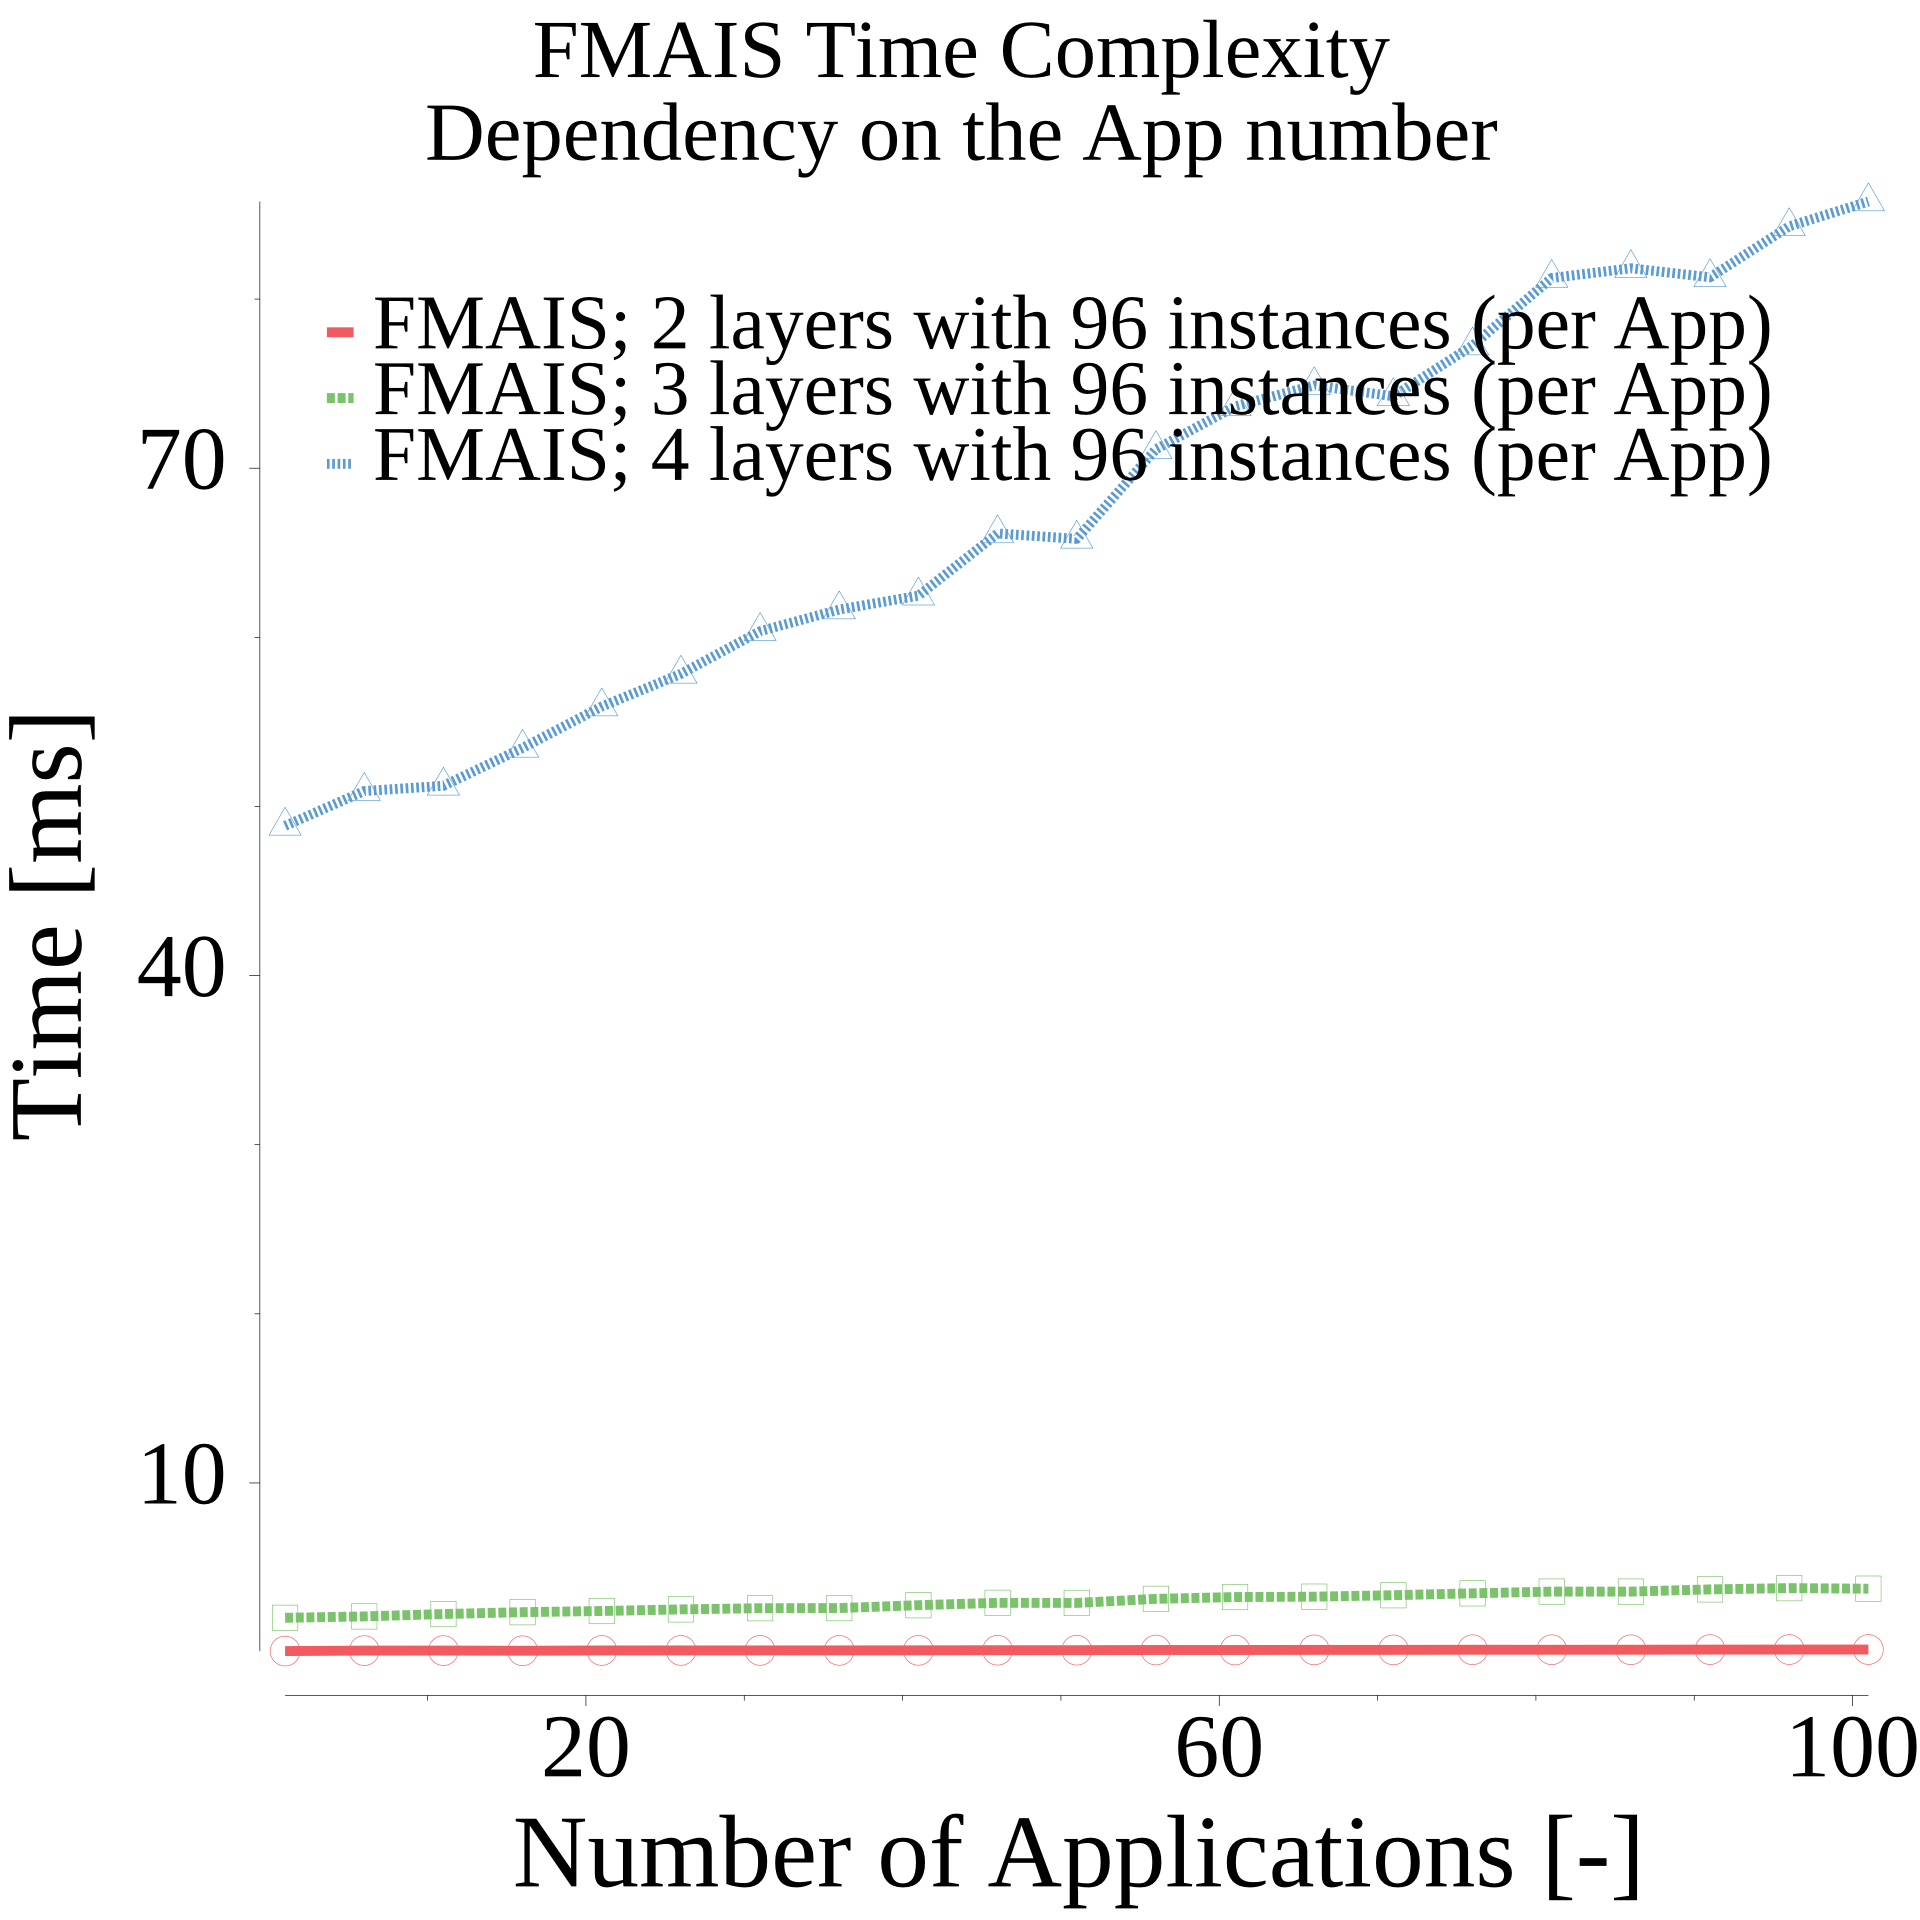
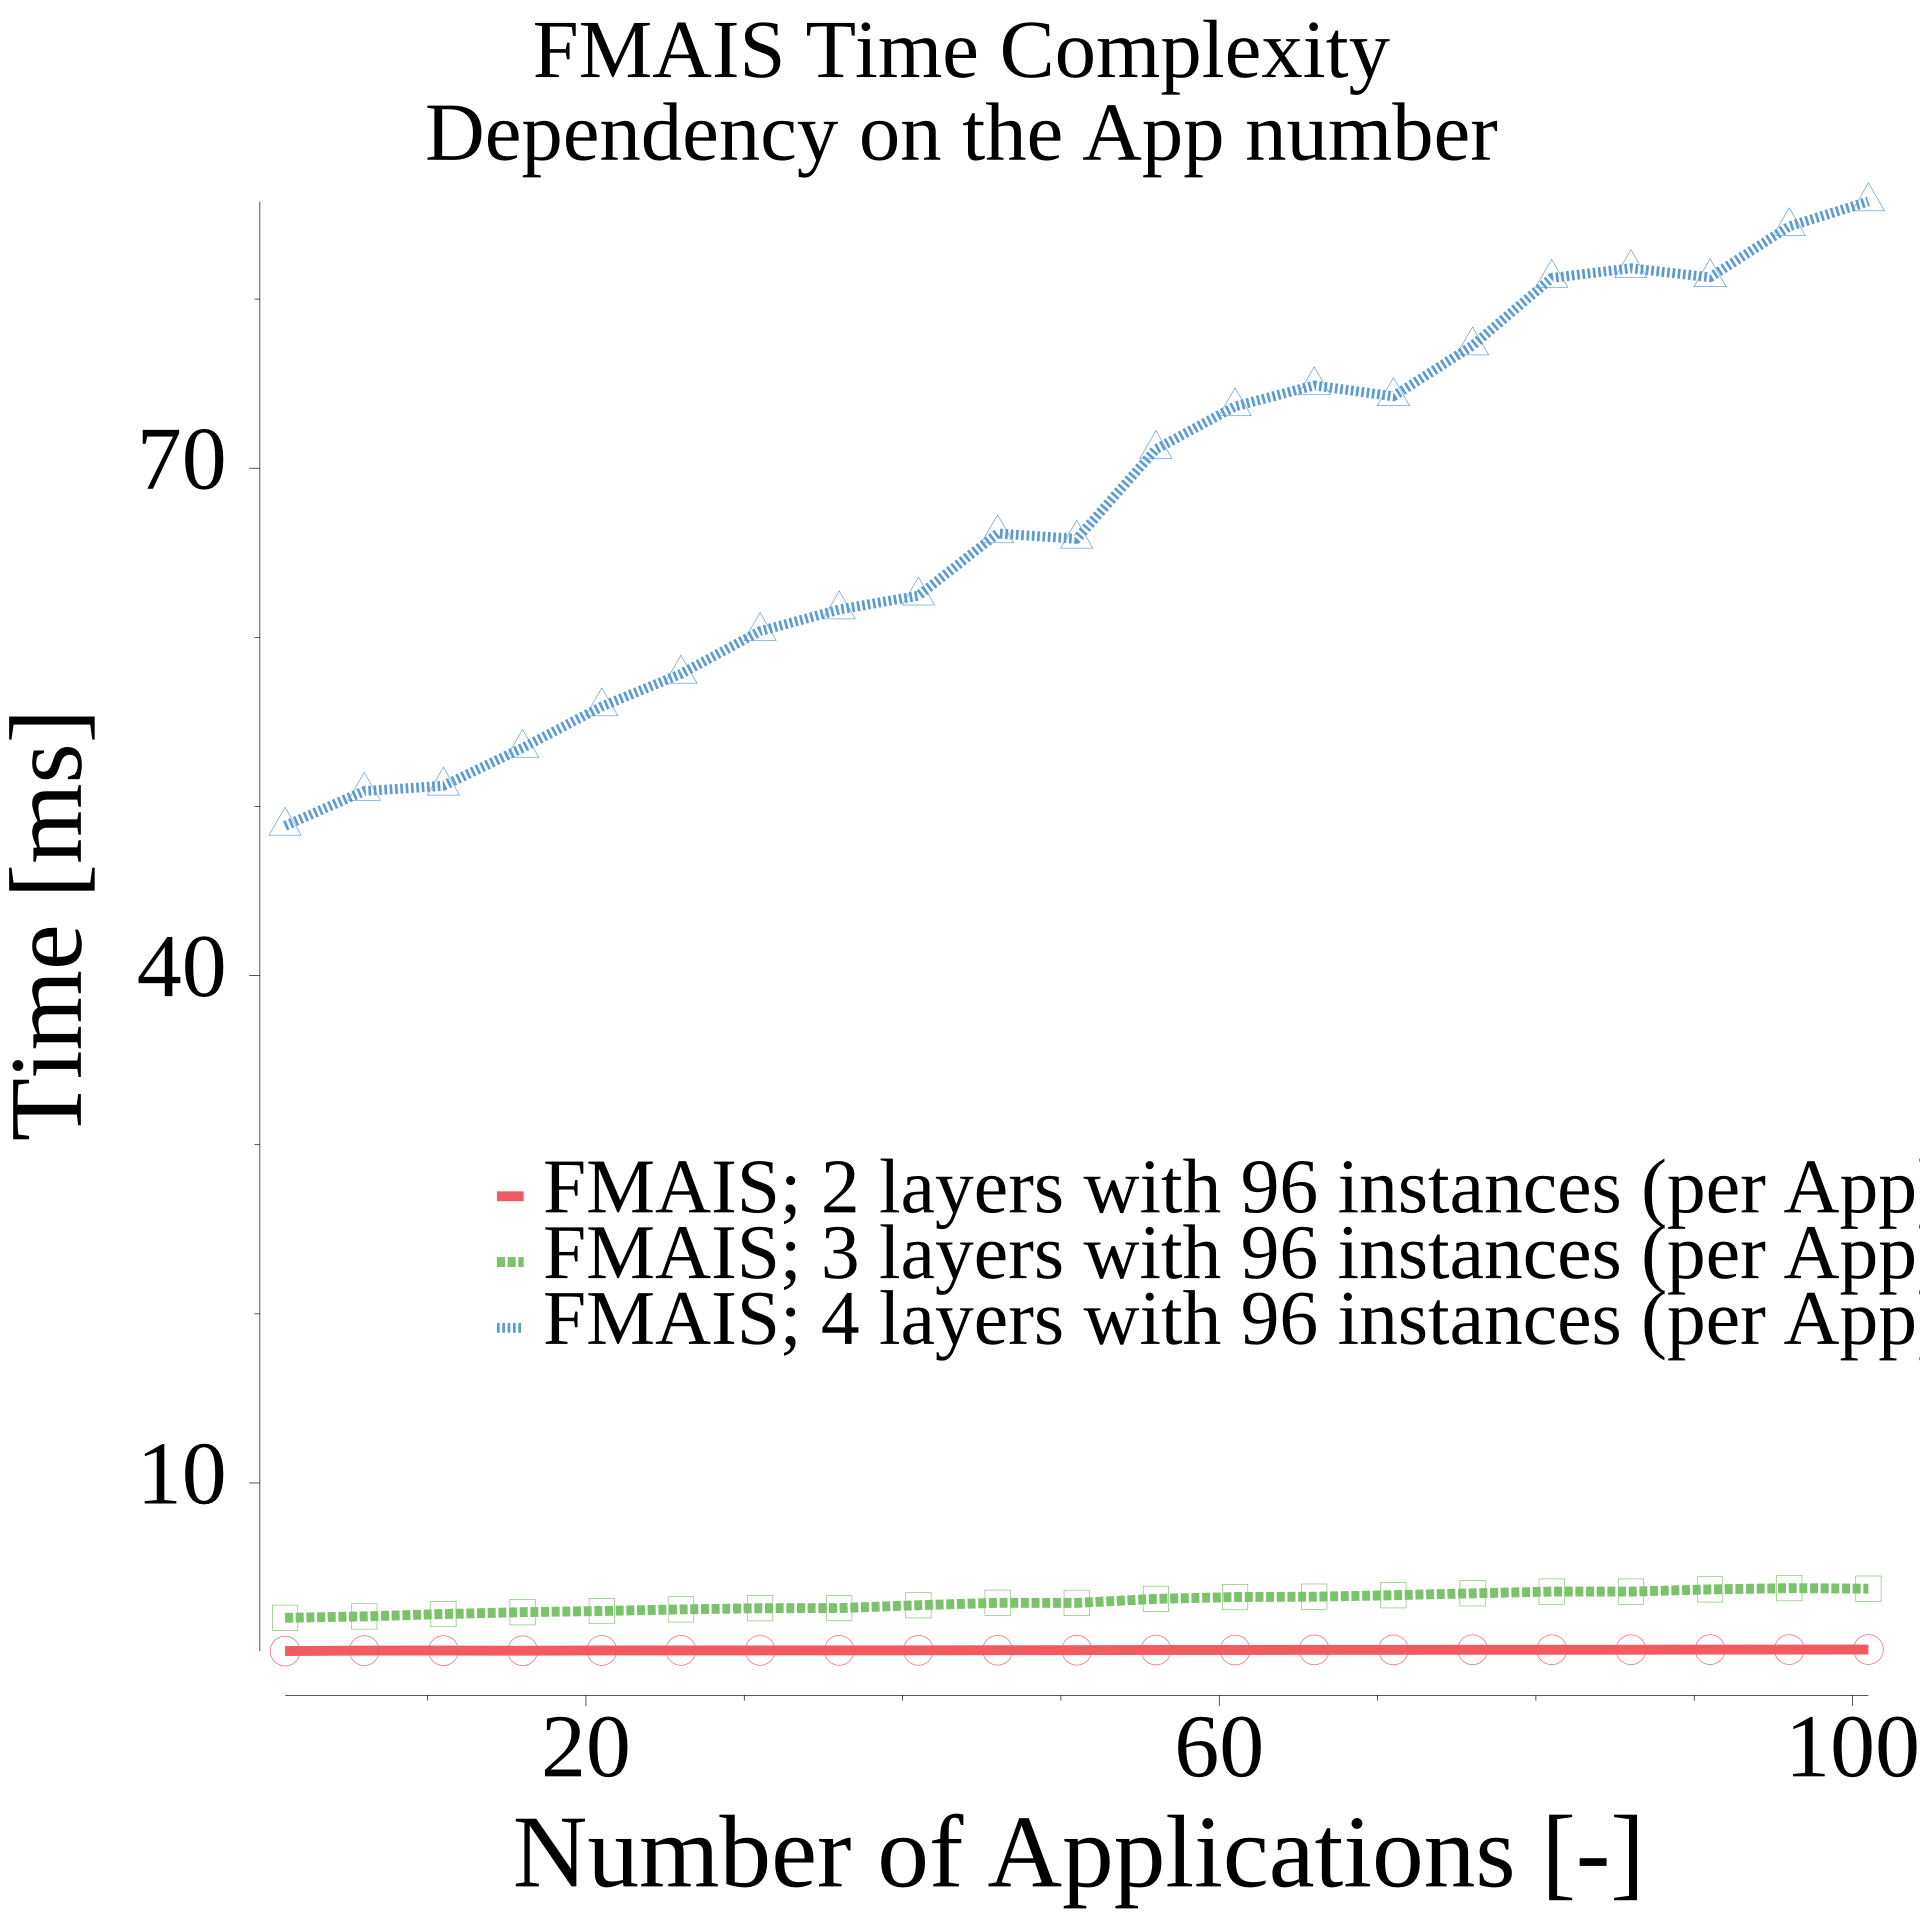
Fixing figures generation

Changed region(s): [[0.2812, 0.5938, 1.0, 0.7188], [0.1875, 0.1562, 0.9375, 0.25]]

diff --git a/pkg/draw/figure.go b/pkg/draw/figure.go
@@ -122,21 +122,21 @@ func PlotTimeComplexities(tc map[int]map[int]map[int]float64, maxDepth int, maxA
 		depthArr = append(depthArr, i)
 	}
 	lines := getLinesForDepth(tc, depthArr, []int{26, 51, 76, 96}, []int{26})
-	err := depthFigure.plotTimeComplexity(lines, greyScale, meertcore, false)
+	err := depthFigure.plotTimeComplexity(lines, greyScale, meertcore, false, true, false)
 	if err != nil {
 		return err
 	}
 
 	depthFigure.SetOutputFileName(strings.ToLower(prefix) + "_time-complexity-depth-56-inst").SetFigureName(figureName + "on the number of layers")
 	lines = getLinesForDepth(tc, depthArr, []int{26, 51, 76, 96}, []int{56})
-	err = depthFigure.plotTimeComplexity(lines, greyScale, meertcore, false)
+	err = depthFigure.plotTimeComplexity(lines, greyScale, meertcore, false, true, false)
 	if err != nil {
 		return err
 	}
 
 	depthFigure.SetOutputFileName(strings.ToLower(prefix) + "_time-complexity-depth-96-inst").SetFigureName(figureName + "on the number of layers")
 	lines = getLinesForDepth(tc, depthArr, []int{26, 51, 76, 96}, []int{96})
-	err = depthFigure.plotTimeComplexity(lines, greyScale, meertcore, false)
+	err = depthFigure.plotTimeComplexity(lines, greyScale, meertcore, false, true, false)
 	if err != nil {
 		return err
 	}
@@ -150,21 +150,21 @@ func PlotTimeComplexities(tc map[int]map[int]map[int]float64, maxDepth int, maxA
 		appArr = append(appArr, appNumber)
 	}
 	lines = getLinesForAppNumber(tc, []int{2, 3, 4}, appArr, []int{26})
-	err = depthFigure.plotTimeComplexity(lines, greyScale, meertcore, true)
+	err = depthFigure.plotTimeComplexity(lines, greyScale, meertcore, true, false, false)
 	if err != nil {
 		return err
 	}
 
 	depthFigure.SetOutputFileName(strings.ToLower(prefix) + "_time-complexity-apps-number-56-inst").SetFigureName(figureName + "on the App number")
 	lines = getLinesForAppNumber(tc, []int{2, 3, 4}, appArr, []int{56})
-	err = depthFigure.plotTimeComplexity(lines, greyScale, meertcore, true)
+	err = depthFigure.plotTimeComplexity(lines, greyScale, meertcore, true, false, false)
 	if err != nil {
 		return err
 	}
 
 	depthFigure.SetOutputFileName(strings.ToLower(prefix) + "_time-complexity-apps-number-96-inst").SetFigureName(figureName + "on the App number")
 	lines = getLinesForAppNumber(tc, []int{2, 3, 4}, appArr, []int{96})
-	err = depthFigure.plotTimeComplexity(lines, greyScale, meertcore, true)
+	err = depthFigure.plotTimeComplexity(lines, greyScale, meertcore, true, false, false)
 	if err != nil {
 		return err
 	}
@@ -177,7 +177,7 @@ func PlotTimeComplexities(tc map[int]map[int]map[int]float64, maxDepth int, maxA
 
 	depthFigure.SetOutputFileName(strings.ToLower(prefix) + "_time-complexity-instances-per-app-1-apps").SetFigureName(figureName + "on instances per App")
 	lines = getLinesForInstances(tc, []int{2, 3, 4}, []int{1}, instArr)
-	err = depthFigure.plotTimeComplexity(lines, greyScale, meertcore, false)
+	err = depthFigure.plotTimeComplexity(lines, greyScale, meertcore, false, false, true)
 	if err != nil {
 		return err
 	}
@@ -185,21 +185,21 @@ func PlotTimeComplexities(tc map[int]map[int]map[int]float64, maxDepth int, maxA
 	depthFigure.SetOutputFileName(strings.ToLower(prefix) + "_time-complexity-instances-per-app-26-apps").SetFigureName(figureName + "on instances per App").
 		SetYaxisName("Time [ms]").SetXaxisName("Instances (per App) [-]")
 	lines = getLinesForInstances(tc, []int{2, 3, 4}, []int{26}, instArr)
-	err = depthFigure.plotTimeComplexity(lines, greyScale, meertcore, false)
+	err = depthFigure.plotTimeComplexity(lines, greyScale, meertcore, false, false, true)
 	if err != nil {
 		return err
 	}
 
 	depthFigure.SetOutputFileName(strings.ToLower(prefix) + "_time-complexity-instances-per-app-56-apps").SetFigureName(figureName + "on instances per App")
 	lines = getLinesForInstances(tc, []int{2, 3, 4}, []int{56}, instArr)
-	err = depthFigure.plotTimeComplexity(lines, greyScale, meertcore, false)
+	err = depthFigure.plotTimeComplexity(lines, greyScale, meertcore, false, false, true)
 	if err != nil {
 		return err
 	}
 
 	depthFigure.SetOutputFileName(strings.ToLower(prefix) + "_time-complexity-instances-per-app-96-apps").SetFigureName(figureName + "on instances per App")
 	lines = getLinesForInstances(tc, []int{2, 3, 4}, []int{96}, instArr)
-	err = depthFigure.plotTimeComplexity(lines, greyScale, meertcore, false)
+	err = depthFigure.plotTimeComplexity(lines, greyScale, meertcore, false, false, true)
 	if err != nil {
 		return err
 	}
@@ -208,8 +208,8 @@ func PlotTimeComplexities(tc map[int]map[int]map[int]float64, maxDepth int, maxA
 }
 
 // plotTimeComplexity produces single figure representing a certain case
-func (d *Draw) plotTimeComplexity(lines map[string]plotter.XYs, greyScale, meertcore, appsNumberDep bool) error {
-	p := d.initializeAndSetPlotter(meertcore, appsNumberDep)
+func (d *Draw) plotTimeComplexity(lines map[string]plotter.XYs, greyScale, meertcore, appsNumberDep, layerDep, instancesDep bool) error {
+	p := d.initializeAndSetPlotter(meertcore, appsNumberDep, layerDep, instancesDep)
 
 	// adding grid to the figure
 	if d.gridOn {
@@ -430,7 +430,7 @@ func PlotMeasuredReliabilityJoint(tc map[string]map[int]float64, apps, depth []i
 
 // plotMeasuredReliability function plots measured ME-ERT-CORE reliability values
 func (d *Draw) plotMeasuredReliability(lines map[string]plotter.XYs, greyScale bool) error {
-	p := d.initializeAndSetPlotter(true, false)
+	p := d.initializeAndSetPlotter(true, false, false, false)
 
 	// adding grid to the figure
 	if d.gridOn {
@@ -457,7 +457,7 @@ func (d *Draw) plotMeasuredReliability(lines map[string]plotter.XYs, greyScale b
 }
 
 // initializeAndSetPlotter function initializes and sets default parameters to the figure
-func (d *Draw) initializeAndSetPlotter(meertcore, appsNumberDep bool) *plot.Plot {
+func (d *Draw) initializeAndSetPlotter(meertcore, appsNumberDep, layersDep, instancesDep bool) *plot.Plot {
 	p := plot.New()
 
 	// setting Figure name and its parameters
@@ -496,7 +496,17 @@ func (d *Draw) initializeAndSetPlotter(meertcore, appsNumberDep bool) *plot.Plot
 	if meertcore && appsNumberDep {
 		p.Legend.YOffs = -5 * vg.Inch // place a legend a bit down
 	}
-
+	if !meertcore && appsNumberDep {
+		p.Legend.YOffs = -10 * vg.Inch // place a legend a bit down
+		p.Legend.XOffs = 6 * vg.Centimeter
+	}
+	if meertcore && layersDep {
+		p.Legend.XOffs = 0.25 * vg.Centimeter
+		p.Legend.YOffs = -0.5 * vg.Inch
+	}
+	if meertcore && appsNumberDep && layersDep && instancesDep {
+		p.Legend.YOffs = -0.5 * vg.Inch
+	}
 	return p
 }
 
@@ -633,8 +643,8 @@ func PlotTimeComplexitiesJoint(tc map[string]map[int]map[int]map[int]float64, ma
 	depthFigure := Draw{}
 	depthFigure.InitializeDrawStruct()
 	depthFigure.SetOutputFileName("me-ert-core_time-complexity-comparison-apps-number").SetFigureName("ME-ERT-CORE Time Complexity\nDependency on the Apps number").
-		SetYaxisName("Time [ms]").SetXaxisName("Number of Applications [-]")
-	err := depthFigure.plotTimeComplexity(linesApp, greyScale, false, false)
+		SetYaxisName("Time [ms]").SetXaxisName("Number of Applications [-]").SetYmax(12)
+	err := depthFigure.plotTimeComplexity(linesApp, greyScale, true, true, true, true) // last 3 false is on purpose: to do not move the legend
 	if err != nil {
 		return err
 	}
@@ -643,7 +653,7 @@ func PlotTimeComplexitiesJoint(tc map[string]map[int]map[int]map[int]float64, ma
 	depthFigure1.InitializeDrawStruct()
 	depthFigure1.SetOutputFileName("me-ert-core_time-complexity-comparison-app-inst-number").SetFigureName("ME-ERT-CORE Time Complexity\nDependency on the instances per App").
 		SetYaxisName("Time [ms]").SetXaxisName("Instances (per App) [-]")
-	err = depthFigure1.plotTimeComplexity(linesInstApp, greyScale, false, false)
+	err = depthFigure1.plotTimeComplexity(linesInstApp, greyScale, false, false, false, false) // last 3 false is on purpose: to do not move the legend
 	if err != nil {
 		return err
 	}
